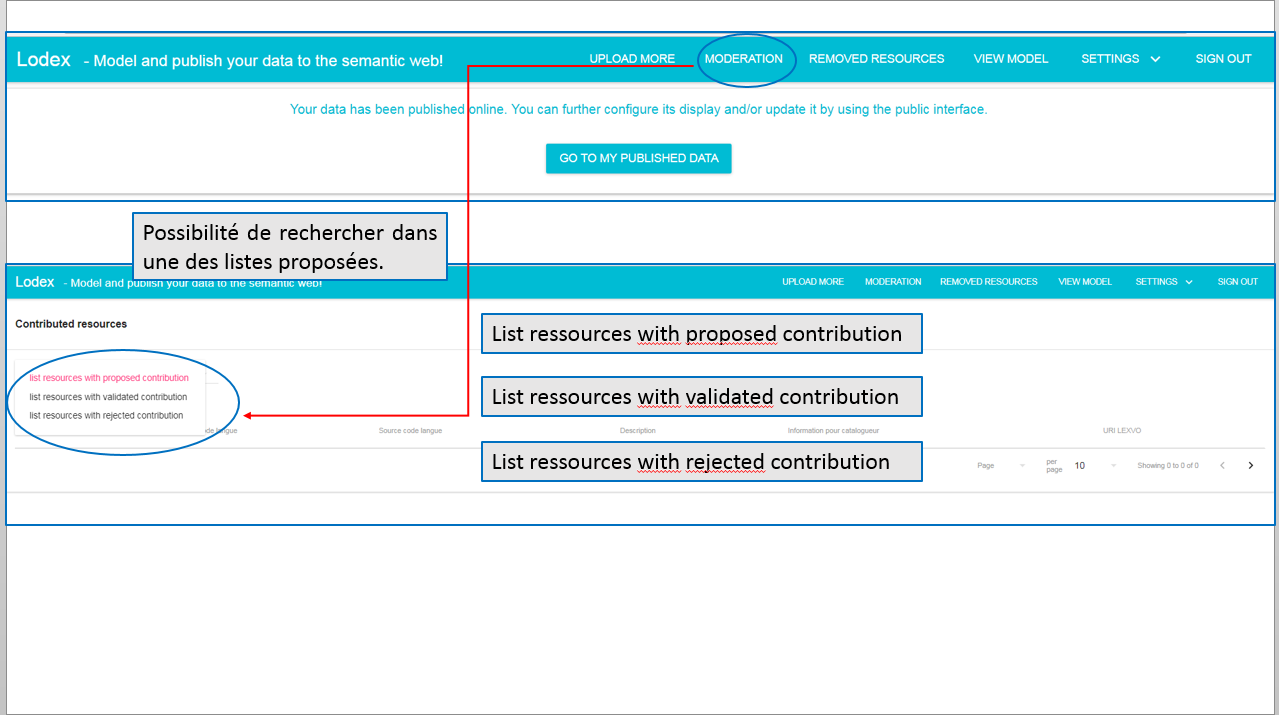
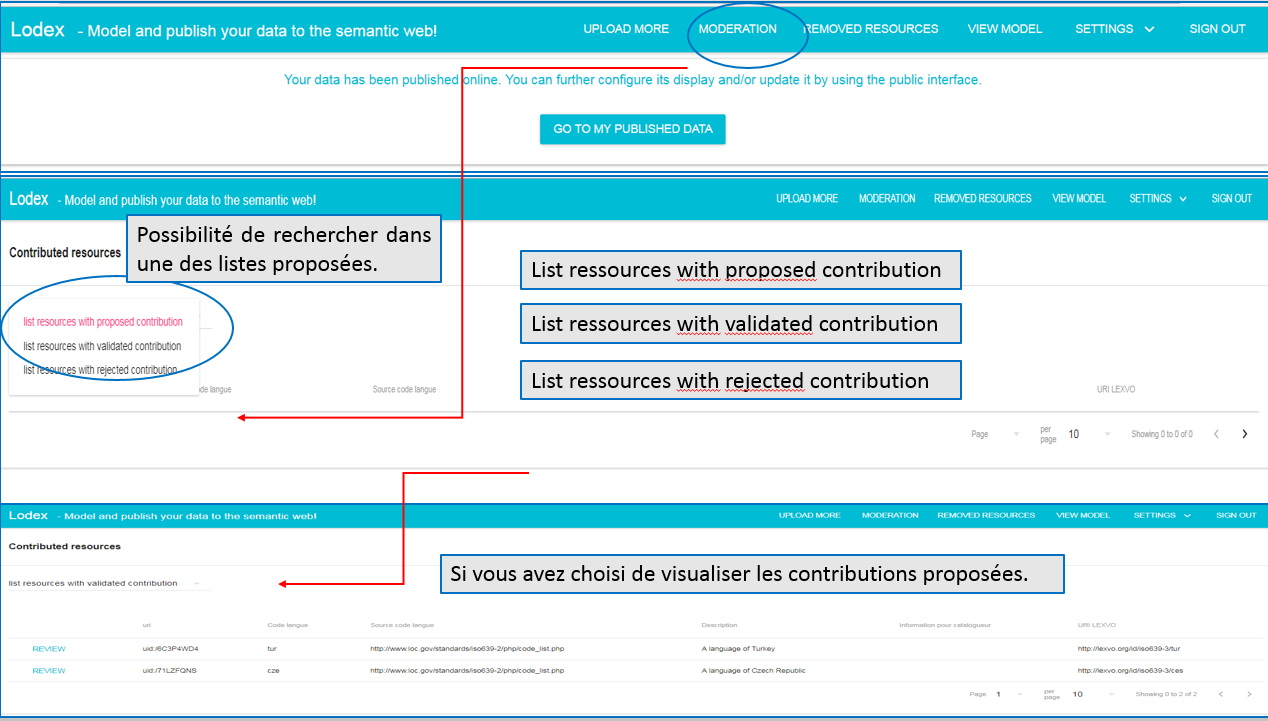
Updates Modération/README.md
Auto commit by GitBook Editor

diff --git a/Modération/README.md b/Modération/README.md
@@ -4,5 +4,7 @@ Comme vous avez pu le lire dans le paragraphe intitulé [édition après publica
 
 L'outil LODEX, propose une fonctionnalité de modération accessible à l'administrateur du jeu de données afin de valider ou non  la proposition.
 
-Après vous être connecté comme administrateur, puis après avoir cliqué sur "MODERATION", le système vous propose  l'écran suivant : ![](/assets/moderation1.png)Si 
+Après vous être connecté comme administrateur, puis après avoir cliqué sur "MODERATION", le système vous propose l'enchaînement des écrans suivants : 
+
+![](/assets/moderation1.png)
 
